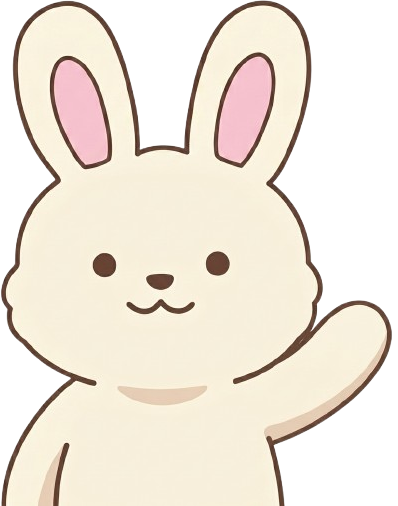
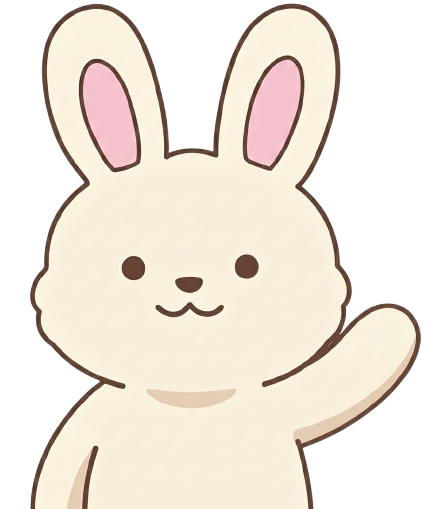
added characters 4 and 5: coco, teddy

diff --git a/src/components/CustomerOrdering.js b/src/components/CustomerOrdering.js
@@ -108,31 +108,38 @@ const TOPPING_SPEECH_NAMES = {
 };
 
 // ---- Which character is at the counter -----------------------------------
-// Three interchangeable customer characters -- Annie (the bunny, the
-// original/only one before this), Otto (the frog), and Katie (the cat) --
-// one is picked at random each time a new order starts (see CUSTOMER_
-// CHARACTER's own lazy useState initializer in the component below, same
-// "rolled once per mount, not re-rolled on every render" pattern
-// generateSpokenOrder's own spokenOrder already uses, since this whole
-// component unmounts/remounts between customers). All three share the same
-// bust framing/crop (Annie.png/Otto.png/Katie.png, each 398x506 -- cropped
-// from a shared 455x548 source canvas down to the union of all three
-// characters' own bounding boxes, so they render at identical scale/
-// position in .ordering-bunny below regardless of which one gets picked)
-// rather than each needing its own tuned box.
+// Five interchangeable customer characters -- Annie (the bunny, the
+// original/only one before this), Otto (the frog), Katie (the cat), Teddy
+// (the bear), and Coco (the poodle) -- one is picked at random each time a
+// new order starts (see CUSTOMER_CHARACTER's own lazy useState initializer
+// in the component below, same "rolled once per mount, not re-rolled on
+// every render" pattern generateSpokenOrder's own spokenOrder already
+// uses, since this whole component unmounts/remounts between customers).
+// All five share the same bust framing/crop (Annie.png/Otto.png/
+// Katie.png/Teddy.png/Coco.png, each 429x509 -- cropped from a shared
+// 455x548 source canvas down to the union of all FIVE characters' own
+// bounding boxes (re-widened from the original three-character union once
+// Teddy's/Coco's own art turned out to reach further toward the canvas
+// edges than Annie/Otto/Katie did -- see the git history around when Teddy/
+// Coco were added for the narrower box that used to clip Teddy's left ear/
+// arm), so they render at identical scale/position in .ordering-bunny below
+// regardless of which one gets picked, with a few pixels of headroom (PAD)
+// on every side rather than a pixel-tight bound.
 const CUSTOMER_CHARACTERS = {
   annie: { src: './Annie.png', alt: 'Annie the bunny, a customer at the counter' },
   otto: { src: './Otto.png', alt: 'Otto the frog, a customer at the counter' },
   katie: { src: './Katie.png', alt: 'Katie the cat, a customer at the counter' },
+  teddy: { src: './Teddy.png', alt: 'Teddy the bear, a customer at the counter' },
+  coco: { src: './Coco.png', alt: 'Coco the poodle, a customer at the counter' },
 };
 
 // One short voice-over clip per customer character, keyed by character id --
 // tied to WHO is at the counter, not to what they happen to order (the
 // spoken order text itself is randomized separately by generateSpokenOrder
-// above). Otto is the only one without a recorded line so far -- he simply
-// has no entry yet, and the playback effect below already treats a missing
-// entry as "no line to play" rather than erroring -- adding one later is
-// just adding another key here, no other change needed.
+// above). Otto/Teddy/Coco are the only ones without a recorded line so far
+// -- they simply have no entry yet, and the playback effect below already
+// treats a missing entry as "no line to play" rather than erroring --
+// adding one later is just adding another key here, no other change needed.
 const CHARACTER_ORDERING_AUDIO = {
   annie: './AnnieOrdering.wav',
   katie: './KatieOrdering.wav',
@@ -990,8 +997,9 @@ const CustomerOrdering = ({ activeStep, customerNumber, onNavigate, onAdvance, o
             background so it can eventually be swapped per customer"
             approach the matcha/toppings stations use for their own props.
             Now actually swapped per customer -- randomly one of Annie/Otto/
-            Katie (see customerCharacter/CUSTOMER_CHARACTERS above) instead
-            of always Annie's own BunnyOrder.png -- see .ordering-bunny in
+            Katie/Teddy/Coco (see customerCharacter/CUSTOMER_CHARACTERS
+            above) instead of always Annie's own BunnyOrder.png -- see
+            .ordering-bunny in
             CustomerOrdering.css (class name kept as-is even though it's not
             always the bunny anymore, to avoid churning that stylesheet's
             own selector for a purely cosmetic rename). */}

diff --git a/src/components/FinalCombination.js b/src/components/FinalCombination.js
@@ -21,26 +21,29 @@ import {
 // Display name per customer character key -- CustomerOrdering.js's own
 // CUSTOMER_CHARACTERS only has src/alt (image concerns), not a plain display
 // name, and order.customerCharacter (see below) only ever carries the raw
-// key ('annie' | 'otto' | 'katie'), so this is what turns that key into the
-// "<Name> Order" title ScoreCard.js's own score-card-title now shows.
-const CUSTOMER_CHARACTER_NAME = { annie: 'annie', otto: 'otto', katie: 'katie' };
+// key ('annie' | 'otto' | 'katie' | 'teddy' | 'coco'), so this is what turns
+// that key into the "<Name> Order" title ScoreCard.js's own score-card-title
+// now shows.
+const CUSTOMER_CHARACTER_NAME = { annie: 'annie', otto: 'otto', katie: 'katie', teddy: 'teddy', coco: 'coco' };
 
 // One "reaction sticker" per character per score tier -- fail -> angry,
 // mid -> annoyed, good -> happy, same three tiers computeOverallScore
 // (gameloop/scoring.js) already buckets the round's total into for
 // ScoreCard's own total-pill coloring, just reused here for which sticker
 // shows instead of which color does. Files are the three emotion PNGs per
-// character (Annie/Katie/Otto), each already trimmed to its own alpha
-// bounding box -- rendered with object-fit: contain (see .serving-reaction-
-// sticker in FinalCombination.css) rather than the shared-canvas crop
-// CustomerOrdering.js's own portraits use, since these don't need to match
-// each other pixel-for-pixel the way three same-pose ordering portraits do
-// -- a sticker propped next to the plate reads fine at its own natural
-// aspect ratio.
+// character (Annie/Katie/Otto/Teddy/Coco), each already trimmed to its own
+// alpha bounding box -- rendered with object-fit: contain (see .serving-
+// reaction-sticker in FinalCombination.css) rather than the shared-canvas
+// crop CustomerOrdering.js's own portraits use, since these don't need to
+// match each other pixel-for-pixel the way five same-pose ordering
+// portraits do -- a sticker propped next to the plate reads fine at its own
+// natural aspect ratio.
 const REACTION_STICKERS = {
   annie: { fail: './AnnieAngry.png', mid: './AnnieAnnoyed.png', good: './AnnieHappy.png' },
   katie: { fail: './KatieAngry.png', mid: './KatieAnnoyed.png', good: './KatieHappy.png' },
   otto: { fail: './OttoAngry.png', mid: './OttoAnnoyed.png', good: './OttoHappy.png' },
+  teddy: { fail: './TeddyAngry.png', mid: './TeddyAnnoyed.png', good: './TeddyHappy.png' },
+  coco: { fail: './CocoAngry.png', mid: './CocoAnnoyed.png', good: './CocoHappy.png' },
 };
 
 // Where the finished drink (see incomingDrink below), carried over from

diff --git a/src/components/CustomerOrdering.css b/src/components/CustomerOrdering.css
@@ -356,6 +356,18 @@
   width: 18.6%;
   height: 42%;
   object-fit: contain;
+  /* Anchors the character to the BOTTOM of its box rather than object-fit's
+     own default center -- the widened shared crop box (see CUSTOMER_
+     CHARACTERS' own comment in CustomerOrdering.js) is no longer quite the
+     same aspect ratio as this box, so contain now letterboxes a little
+     instead of filling it edge-to-edge. Centered, that letterboxing splits
+     evenly top/bottom and visibly lifts every character off the counter
+     line drawn into the background art; anchored to the bottom instead, all
+     of it collects above the character's head where it isn't noticeable,
+     same "anchor the edge that touches a surface, not the center" idea
+     BOTTLE_BOTTOM in MilkSelection.js and .serving-reaction-sticker in
+     FinalCombination.css already use for their own object-fit: contain. */
+  object-position: bottom;
   pointer-events: none;
   /* No longer an unconditional z-index here -- the character is only
      exempt from the spotlight overlay during the "read phase" (see
